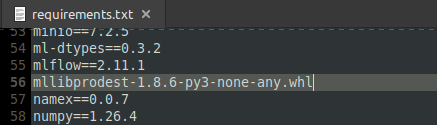
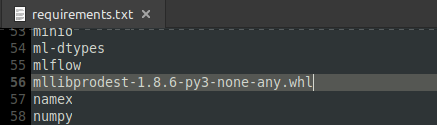
Melhoria nas instruções

diff --git a/UPDATE_VERSIONS.md b/UPDATE_VERSIONS.md
@@ -16,7 +16,10 @@ Escolha os repositórios que serão atualizados:
 
 ### 1.1 Fork e clone
 
-Realize o *fork* dos repositórios escolhidos e clone cada um dos *forks* criados, conforme o [tutorial oficial do Github](https://docs.github.com/en/pull-requests/collaborating-with-pull-requests/working-with-forks/fork-a-repo). Para facilitar, escolha a plataforma e maneira que achar mais adequadas para o seu caso.
+Realize o *fork* dos repositórios escolhidos e clone cada um dos *forks* criados, conforme o [tutorial oficial do Github](https://docs.github.com/en/pull-requests/collaborating-with-pull-requests/working-with-forks/fork-a-repo). Lembre-se  
+de substituir o repositório informado no tutorial para teste pelo repositório de onde será feito o *fork*.
+
+Para facilitar, escolha a plataforma e maneira que achar mais adequadas para o seu caso.
 
 ![fork](docs/fork.png)
 
@@ -110,9 +113,9 @@ Procure pelo arquivo **pyproject.toml** que está dentro da pasta criada no proc
 
 - Retire a versão do Setup tools da linha: **requires = ['setuptools>=69.1.1']** deve ficar assim: **requires = ['setuptools']**
 
-- Retire as versões dos pacotes que constam na linha: **dependencies = ['minio==7.2.5', 'python-dotenv==1.0.1', ...]**. Deve ficar assim: **dependencies = ['minio', 'python-dotenv', ...]**
-
 - Altere a versão da mllibprodest somando 1 no último campo numérico na linha: **version = "1.8.5"**, que nesse exemplo ficará assim: **version = "1.8.6"**
+
+- Retire as versões dos pacotes que constam na linha: **dependencies = ['minio==7.2.5', 'python-dotenv==1.0.1', ...]**. Deve ficar assim: **dependencies = ['minio', 'python-dotenv', ...]**
 
 Depois das alterações realizadas, o arquivo deverá ficar parecido com a imagem abaixo.
 
@@ -120,7 +123,7 @@ Depois das alterações realizadas, o arquivo deverá ficar parecido com a image
 
 ![alt text](docs/pyproject_sem_versoes.png)
 
-## 3. (Se necessário) Faça o *build* da mllibprodest
+## 3. Faça o *build* da mllibprodest
 
 Caso os pacotes da **mllibprodest** precisarem ser atualizados, será preciso fazer o *build* da mllibprodest para gerar um pacote instalável pelo **pip**. Siga os passos abaixo:
 
@@ -173,7 +176,7 @@ Copie a pasta criada no processo de clonagem do *fork* do repositório da Stack 
 
 Copie a pasta **publicar**, que está dentro da pasta criada no processo de clonagem do *fork* do repositório do modelo de teste, para dentro da pasta com os arquivos da Stack que foi copiada para a pasta de teste no **passo 4.2**.
 
-### 4.4 (Se necessário) Copie a lib para o modelo-teste
+### 4.4 Copie a lib para o modelo-teste
 
 Se a **mllibprodest** foi atualizada, conforme **passo 3**, é mandatório que o modelo de teste seja atualizado com a nova versão da lib.
 
@@ -182,7 +185,7 @@ Para atualizar o modelo de teste com a versão atualizada da **mllibprodest**, c
 - publicar/worker_pub
 - publicar/worker_retrain
 
-Além disso, edite os arquivos **requirements.txt** constantes nas duas pastas (worker_pub e worker_retrain) e substitua a linha **mllibprodest==x.y.z**, ou somente **mllibprodest**, pelo nome do arquivo gerado pelo *build*, que nesse exemplo é **mllibprodest-1.8.6-py3-none-any.whl**, conforme imagens abaixo:
+Além disso, edite os arquivos **requirements.txt** constantes nas duas pastas (worker_pub e worker_retrain) e substitua a linha **mllibprodest** pelo nome do arquivo gerado pelo *build*, que nesse exemplo é **mllibprodest-1.8.6-py3-none-any.whl**, conforme imagens abaixo:
 
 - Antes:
 
@@ -298,7 +301,7 @@ Caso ocorram com sucesso, as execuções dos comandos acima gerarão os arquivos
 
 ![alt text](docs/arquivos_req_novos.png)
 
-### 7.2 - (Se necessário) Pacotes da mllibprodest
+### 7.2 - Pacotes da mllibprodest
 
 Se os pacotes da mllibprodest foram atualizados, obtenha as versões conforme instruções abaixo:
 
@@ -333,7 +336,7 @@ pip list --format=freeze > req_mllib.txt
 
 ## 8. Atualizar os arquivos dos *forks*
 
-De posse dos arquivos gerados no **passo 7**, faça o inverso do que foi feito nos **passos 2.1, 2.3 e 2.4 (se necessário)**. Em suma, retorne com as versões que foram instaladas no *build* da Stack.
+De posse dos arquivos gerados no **passo 7**, faça o inverso do que foi feito nos **passos 2.1, 2.3 e 2.4**. Em suma, retorne com as versões que foram instaladas no *build* da Stack.
 
 Por exemplo, para o pacote rich:
 
@@ -380,10 +383,9 @@ Antes de realizar o *pull request* faça *commit* e *push* das suas alterações
 ```
 git add .
 git commit -m "MENSAGEM INFORMATIVA"
-git push
+git push --set-upstream origin atualizar_pacotes
 ```
 Onde: **"MENSAGEM INFORMATIVA"** é uma mensagem que descreva o *commit* realizado.
-
 
 ### 10.2 Crie um *pull request*
 
